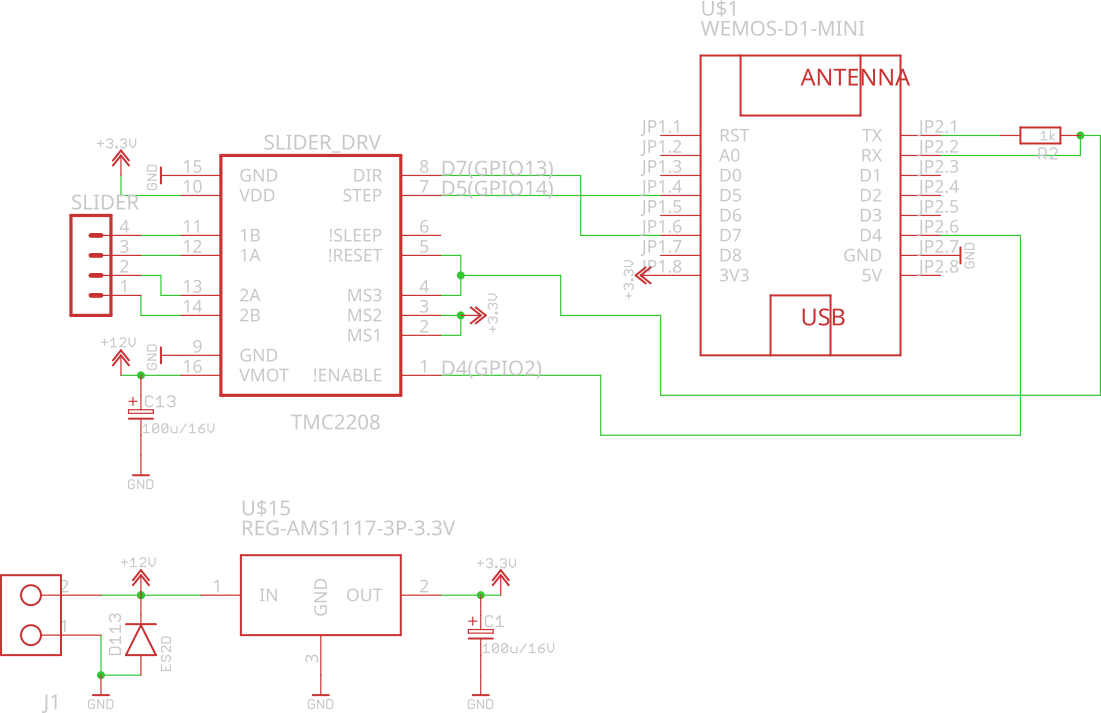
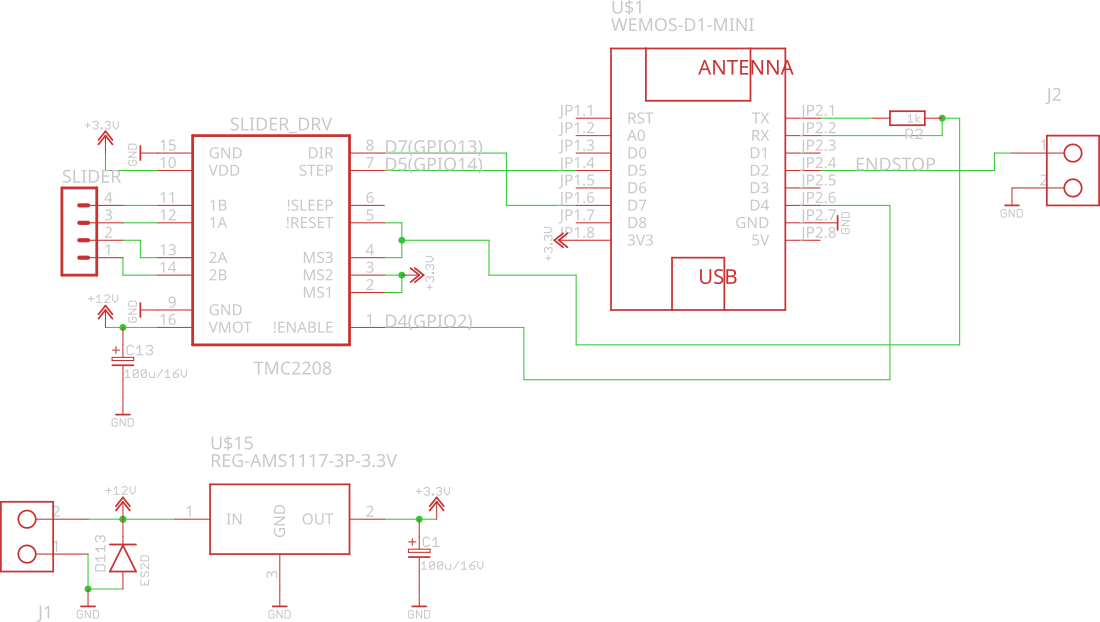
Schematic fixups

diff --git a/src/main.cpp b/src/main.cpp
@@ -350,10 +350,8 @@ void cmdHome(CommandQueueItem *c)
 		m1d->loop();
 		CmdDB.loop();
 		if ((digitalRead(z_endstop)) == 0) {
-			m1d->stop();
-			g_pos_x = 0;
-			c->sendAck();
-			break;
+			cmdG90(c);
+			return;
 		}
 		yield();
 	}

diff --git a/README.md b/README.md
@@ -36,20 +36,22 @@ Features:
 
 
 # Electrical parts needed:
-* ESP8266,
+* ESP8266 (bare ESP8266 module or D1 mini),
 * DC/DC converter 12V to 3.3V,
 * 1 x TMC2208,
 * 1 x Stepper mottor Nema 17,
 * wires,
 * connectors,
+* [1 x Limit Switch Endstop for Creality CR-10 10S Ender 3] - OPTIONAL
 
 
 # D1 mini CONNECTIONS
 * STEP      - GPIO14 (D5)
 * DIR1      - GPIO13 (D7)
 * MOTTOR EN - GPIO2  (D4)
-* RX        - TMC2208 single wire uart
-* TX        - TMC2208 single wire uart
+* RX        - TMC2208 single wire uart (1kohm from RX to TX)
+* TX        - TMC2208 single wire uart (1kohm from RX to TX)
+* ENDSTOP   - GPIO4  (D2)  - OPTIONAL
 # Wiring
 
 ![alt tag](https://github.com/BubuHub/ESP8266_Camera_Slider/blob/main/blob/assets/schematic.png)
